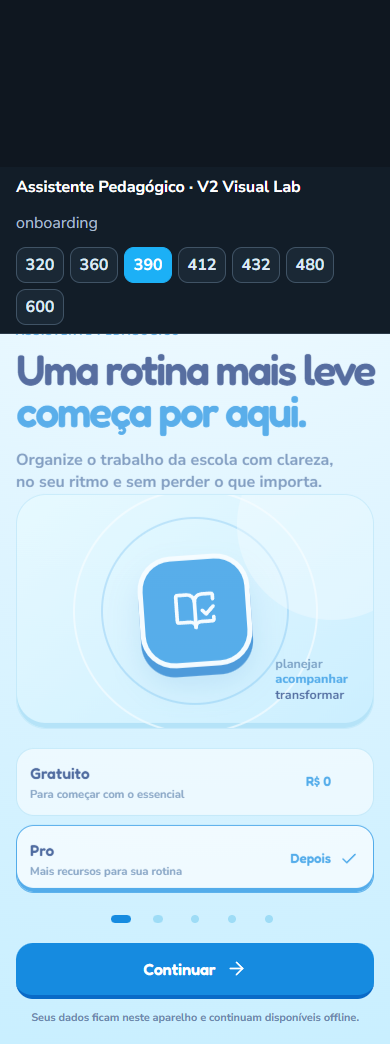
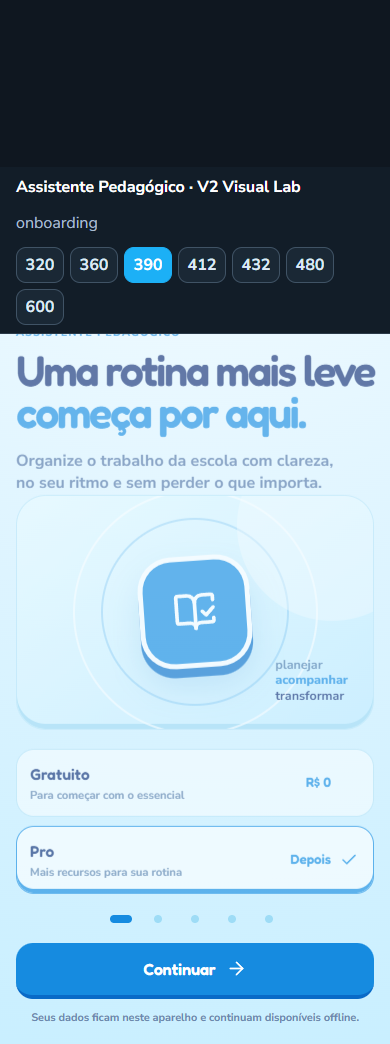
feat: migrate privacy controls to v2

diff --git a/src/v2/screens/privacy-v2.css b/src/v2/screens/privacy-v2.css
@@ -1,0 +1,1 @@
+.v2-privacy{background:radial-gradient(circle at 50% -10%,#f8fdff 0,#e1f7ff 54%,#c7efff 100%)}.v2-privacy__screen{width:min(100%,var(--v2-content-max));min-height:100dvh;margin:0 auto;padding:max(18px,env(safe-area-inset-top)) 16px max(30px,env(safe-area-inset-bottom));box-sizing:border-box}.v2-privacy h1,.v2-privacy h2,.v2-privacy strong,.v2-privacy button{font-family:"Fredoka",ui-rounded,"Nunito Sans",system-ui,sans-serif}.v2-privacy__header{display:grid;grid-template-columns:52px minmax(0,1fr) 52px;gap:11px;align-items:center;min-height:54px}.v2-privacy__back,.v2-privacy__mark{display:grid;width:52px;height:52px;place-items:center;border:1px solid #b8e3f7;border-bottom:4px solid #7bc7ea;border-radius:18px;background:#e1f6ff;color:#1761a8}.v2-privacy__mark{border-color:#46c4f5;border-bottom-color:#0b70c9;background:#168be0;color:#fff}.v2-privacy h1{margin:5px 0 0;color:#102b72;font-size:clamp(1.8rem,8vw,2.3rem);line-height:1;letter-spacing:-.04em}.v2-privacy__header p{margin:5px 0 0;color:#6381a9;font:700 .74rem/1.25 var(--v2-font-family)}.v2-privacy__hero{display:flex;align-items:flex-start;gap:12px;margin-top:23px;padding:17px;border:1px solid #8bd5f2;border-bottom:4px solid #78c7ea;border-radius:21px;background:#e8f9ff}.v2-privacy__hero>span{display:grid;width:43px;height:43px;flex:0 0 auto;place-items:center;border-radius:14px;background:#c8efff;color:#168be0}.v2-privacy__hero strong{display:block;color:#102b72;font-size:1rem}.v2-privacy__hero p,.v2-privacy__section p{margin:5px 0 0;color:#5e7da5;font:700 .76rem/1.45 var(--v2-font-family)}.v2-privacy__section{margin-top:16px;padding:17px;border:1px solid #bde5f7;border-radius:22px;background:#fff}.v2-privacy__section-head{display:flex;align-items:center;gap:10px}.v2-privacy__icon{display:grid;width:43px;height:43px;flex:0 0 auto;place-items:center;border-radius:14px;background:#dff6ff;color:#168be0}.v2-privacy h2{margin:5px 0 0;color:#102b72;font-size:1.18rem;line-height:1.08}.v2-privacy__toggle{display:flex;min-height:60px;align-items:center;justify-content:space-between;gap:10px;margin-top:16px;padding-top:13px;border-top:1px solid #d4edf8}.v2-privacy__toggle strong,.v2-privacy__toggle small{display:block}.v2-privacy__toggle strong{color:#173774;font-size:.84rem}.v2-privacy__toggle small{margin-top:3px;color:#7794b2;font:600 .67rem var(--v2-font-family)}.v2-privacy__toggle input{position:absolute;opacity:0}.v2-privacy__toggle i{position:relative;width:53px;height:31px;flex:0 0 auto;border-radius:20px;background:#c8e5f2;transition:background var(--v2-motion-fast) ease}.v2-privacy__toggle i::after{content:"";position:absolute;top:4px;left:4px;width:23px;height:23px;border-radius:50%;background:#fff;box-shadow:0 2px 5px #6488a644;transition:transform var(--v2-motion-fast) ease}.v2-privacy__toggle input:checked+i{background:#168be0}.v2-privacy__toggle input:checked+i::after{transform:translateX(22px)}.v2-privacy__toggle input:focus-visible+i{outline:3px solid #8bd5f2;outline-offset:3px}.v2-privacy__row{display:flex;width:100%;min-height:64px;align-items:center;gap:10px;margin-top:10px;padding:8px 0;border:0;border-top:1px solid #d4edf8;background:transparent;color:#173774;text-align:left}.v2-privacy__row>span:nth-child(2){min-width:0;flex:1}.v2-privacy__row strong,.v2-privacy__row small{display:block}.v2-privacy__row strong{font-size:.84rem}.v2-privacy__row small{margin-top:3px;color:#7390ae;font:600 .67rem/1.25 var(--v2-font-family)}.v2-privacy__row>svg{color:#168be0}.v2-privacy__row.is-danger .v2-privacy__icon{background:#fff0f2;color:#d35461}.v2-privacy__row.is-danger strong{color:#b84b58}.v2-privacy__note{margin:14px 2px 0;color:#718eaa;text-align:center;font:600 .67rem/1.4 var(--v2-font-family)}@media(max-width:359px){.v2-privacy__screen{padding-inline:12px}.v2-privacy__header{grid-template-columns:48px minmax(0,1fr) 48px;gap:7px}.v2-privacy__back,.v2-privacy__mark{width:48px;height:48px}}@media(prefers-reduced-motion:reduce){.v2-privacy *,.v2-privacy *::before,.v2-privacy *::after{transition:none!important;animation:none!important}}

diff --git a/src/v2/screens/PrivacyV2.tsx b/src/v2/screens/PrivacyV2.tsx
@@ -1,0 +1,12 @@
+import { useState } from 'react';
+import { ArrowLeft, ChevronRight, Database, FileLock2, ShieldCheck, Trash2 } from 'lucide-react';
+import '@fontsource/fredoka/600.css';
+import '../styles/foundation.css';
+import './privacy-v2.css';
+
+type Props = { onBack: () => void; goTo?: (route: string) => void };
+export function PrivacyV2({ onBack, goTo }: Props) {
+  const [analytics, setAnalytics] = useState(() => { try { return JSON.parse(window.localStorage.getItem('config:analytics') || 'false') === true; } catch { return false; } });
+  const toggle = (value: boolean) => { setAnalytics(value); try { window.localStorage.setItem('config:analytics', JSON.stringify(value)); } catch { /* armazenamento indisponível */ } };
+  return <main className="v2-root v2-privacy"><div className="v2-privacy__screen"><header className="v2-privacy__header"><button type="button" className="v2-privacy__back v2-pressable" onClick={onBack} aria-label="Voltar"><ArrowLeft size={23} /></button><div><span className="v2-eyebrow">CONTROLE E CUIDADO</span><h1>Privacidade</h1><p>Seus dados pedagógicos sob seu controle.</p></div><span className="v2-privacy__mark"><ShieldCheck size={22} /></span></header><section className="v2-privacy__hero"><span><Database size={22} /></span><div><strong>Este aparelho é o seu espaço.</strong><p>Perfil, turmas, planejamentos e registros ficam armazenados localmente nesta versão.</p></div></section><section className="v2-privacy__section" aria-labelledby="privacy-usage-title"><div className="v2-privacy__section-head"><span className="v2-privacy__icon"><FileLock2 size={20} /></span><div><span className="v2-eyebrow">DADOS DE USO</span><h2 id="privacy-usage-title">Registros técnicos locais</h2></div></div><p>Por padrão, o aplicativo não envia dados de uso. Se quiser ajudar a diagnosticar problemas, você pode permitir registros técnicos neste aparelho. Conteúdo de alunos não é incluído.</p><label className="v2-privacy__toggle"><span><strong>Permitir registros técnicos</strong><small>{analytics ? 'Ativado neste aparelho' : 'Desativado por padrão'}</small></span><input type="checkbox" checked={analytics} onChange={(event) => toggle(event.target.checked)} /><i aria-hidden="true" /></label></section><section className="v2-privacy__section"><span className="v2-eyebrow">SUAS ESCOLHAS</span><h2>Você decide o que guardar.</h2><p>Fotos, áudios e dados de alunos devem ser registrados somente quando houver finalidade pedagógica e autorização adequada.</p><button type="button" className="v2-privacy__row v2-pressable" onClick={() => goTo?.('backup')}><span className="v2-privacy__icon"><Database size={19} /></span><span><strong>Gerenciar backup e dados</strong><small>Exporte uma cópia ou apague os dados locais.</small></span><ChevronRight size={20} /></button><button type="button" className="v2-privacy__row v2-pressable is-danger" onClick={() => goTo?.('backup')}><span className="v2-privacy__icon"><Trash2 size={19} /></span><span><strong>Excluir dados locais</strong><small>A ação será confirmada antes de apagar qualquer coisa.</small></span><ChevronRight size={20} /></button></section><p className="v2-privacy__note">Desinstalar o aplicativo ou limpar seus dados pelo Android pode apagar as informações deste aparelho.</p></div></main>;
+}

diff --git a/e2e/v2-privacy-flow.pw.ts b/e2e/v2-privacy-flow.pw.ts
@@ -1,0 +1,22 @@
+import { expect, test } from '@playwright/test';
+
+test('Privacidade V2 deixa analytics local desativado por padrão e alternável', async ({ page }) => {
+  await page.setViewportSize({ width: 390, height: 900 });
+  await page.goto('/?v2-preview=privacy&width=390');
+  const device = page.locator('.v2-preview-device');
+  await expect(device.getByRole('heading', { name: 'Privacidade', exact: true })).toBeVisible();
+  const toggle = device.getByRole('checkbox');
+  await expect(toggle).not.toBeChecked();
+  await toggle.check();
+  await expect(toggle).toBeChecked();
+  await page.screenshot({ path: 'docs/qa/android-1.0/privacy-v2-390.png', fullPage: true });
+  await device.getByRole('button', { name: /Gerenciar backup/ }).click();
+  await expect(device.getByRole('heading', { name: 'Privacidade', exact: true })).toBeVisible();
+});
+
+test('Privacidade V2 mantém texto legível em 320px', async ({ page }) => {
+  await page.setViewportSize({ width: 320, height: 900 });
+  await page.goto('/?v2-preview=privacy&width=320');
+  const result = await page.locator('.v2-preview-device').evaluate((root) => ({ overflow: root.scrollWidth > root.clientWidth + 1, hasLocal: (root.textContent || '').includes('armazenados localmente') }));
+  expect(result).toEqual({ overflow: false, hasLocal: true });
+});

diff --git a/src/v2/preview/V2Preview.tsx b/src/v2/preview/V2Preview.tsx
@@ -19,6 +19,7 @@ import { SplashV2 } from '../screens/SplashV2';
 import { SetupWizardV2 } from '../screens/SetupWizardV2';
 import { NewStudentV2 } from '../screens/NewStudentV2';
 import { SubscriptionV2 } from '../screens/SubscriptionV2';
+import { PrivacyV2 } from '../screens/PrivacyV2';
 import type { Attendance } from '../../domain/models';
 import type { LessonPlan } from '../../domain/models';
 import type { StoragePort } from '../../domain/models';
@@ -139,7 +140,9 @@ export function V2Preview() {
 
       <div className="v2-preview-stage">
         <div className="v2-preview-device" style={{ width }} data-preview-width={width}>
-          {activeScreen === 'subscription' ? (
+          {activeScreen === 'privacy' ? (
+            <PrivacyV2 onBack={() => setActiveScreen('more')} goTo={(route) => route === 'backup' ? undefined : undefined} />
+          ) : activeScreen === 'subscription' ? (
             <SubscriptionV2 onBack={() => setActiveScreen('more')} goTo={() => undefined} />
           ) : activeScreen === 'new-student' ? (
             <NewStudentV2 turmaId="preview" onBack={() => setActiveScreen('wizard')} onConcluido={() => setActiveScreen('classes')} onSalvo={() => undefined} />

diff --git a/src/screens/App.js b/src/screens/App.js
@@ -42,6 +42,7 @@ import { SetupWizardV2 } from "../v2/screens/SetupWizardV2";
 import { NewStudentV2 } from "../v2/screens/NewStudentV2";
 import { SubscriptionScreen } from "../screens/SubscriptionScreen";
 import { SubscriptionV2 } from "../v2/screens/SubscriptionV2";
+import { PrivacyV2 } from "../v2/screens/PrivacyV2";
 import { HelpFeedbackScreen } from "../screens/HelpFeedbackScreen";
 import { LegalScreen } from "../screens/LegalScreen";
 import { SplashScreen } from "../screens/SplashScreen.js";
@@ -1103,7 +1104,7 @@ function App() {
                                     }))
                                   : (Re == null ? void 0 : Re.name) ===
                                       "privacidade"
-                                    ? (ht = React.createElement(PrivacyScreen, {
+                                    ? (ht = React.createElement(PrivacyV2, {
                                         onBack: _t,
                                         goTo: zt,
                                       }))

diff --git a/docs/STATUS.md b/docs/STATUS.md
@@ -165,3 +165,9 @@ Ainda não há release comercial pronta. Não gerar expectativa de produção at
 - `src/v2/screens/SubscriptionV2.tsx` substitui o paywall visual V1 e mantém a fonte de verdade em `getSubscriptionBilling()`/RevenueCat, incluindo ofertas, compra, cancelamento, restore e preferência gratuita.
 - Preços, trial e disponibilidade continuam vindo da loja; quando não há oferta real, a tela informa “em breve/indisponível” e não simula uma compra.
 - Estado: `IN PROGRESS`; faltam credenciais/loja real para fechar o gate de billing e validar a confirmação no Android físico.
+
+## Android 1.0 — privacidade V2 em andamento
+
+- `src/v2/screens/PrivacyV2.tsx` substitui a composição V1 e preserva o controle local `config:analytics`, desativado por padrão; nenhum dado de aluno é enviado.
+- A tela mantém os caminhos para backup e exclusão local com confirmação no fluxo de dados, além de comunicar os limites do armazenamento no aparelho.
+- Estado: `IN PROGRESS`; backup seguro e exclusão de conta ainda precisam de seus lotes próprios e QA de lifecycle.

diff --git a/docs/ANDROID_1_0_EXECUTION_BOARD.md b/docs/ANDROID_1_0_EXECUTION_BOARD.md
@@ -119,7 +119,7 @@ Nenhuma ação principal da Home cai em V1 e todos os destinos parecem o mesmo p
 - Mais hub — `TODO`
 - Configurações — `IN PROGRESS`
 - Aparência/acessibilidade — `IN PROGRESS`
-- Privacidade/segurança — `TODO`
+- Privacidade/segurança — `IN PROGRESS`
 - Backup/sync — `TODO`
 - Ajuda/suporte — `TODO`
 - Sobre — `TODO`
